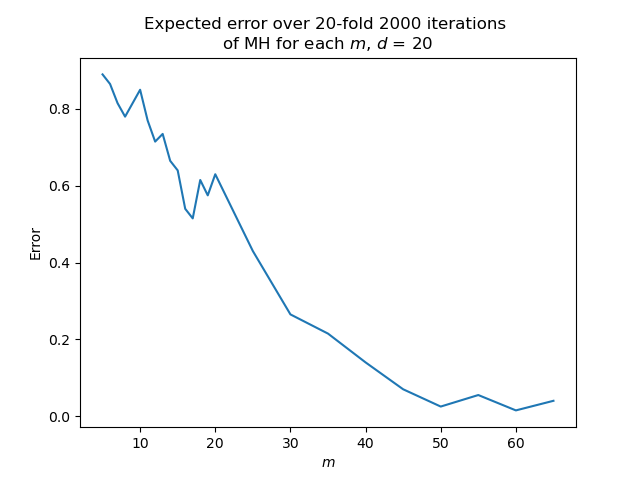
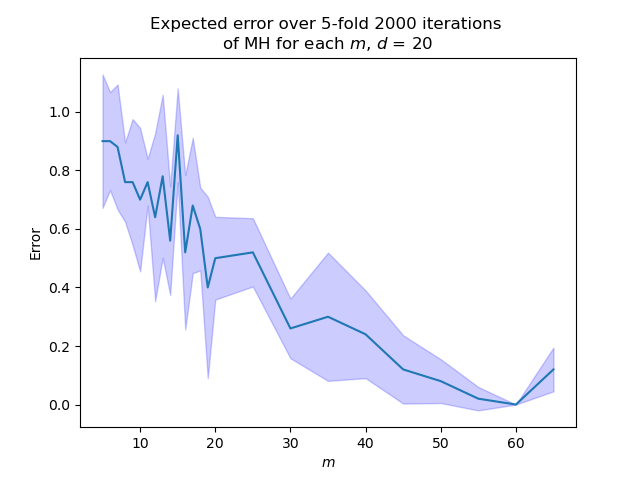
plot for q3 + added std dev for every plot

diff --git a/run.py b/run.py
@@ -52,16 +52,17 @@ def compute_error(estimate_theta, true_theta):
 
 if __name__ == "__main__":
 
-    # question = 0
+    question = 0
     # question = 1.6
     # question = 2.3
-    question = 2.31
+    # question = 2.31
     # question = 3.2
 
     d = 2000
     s = d // 100
     m = 200
     sigma = 1
+    runs = 5   # number of runs/folds for MH
 
     beta = 0.1
 
@@ -83,9 +84,9 @@ if __name__ == "__main__":
     if question == 1.6:
 
         # create a dense enough array of values of m
-        m_array = sorted(list(set([int(d*(1-0.025*r)) for r in range(1, 30, 2)] + [int(d*(1+0.125*r)) for r in range(0, 20, 2)])))
+        m_array = sorted(list(set([int(d*(1-0.025*r)) for r in range(1, 30, 2)] + [int(d*(1+0.125*r)) for r in range(0, 5, 2)])))
         errors = []
-        runs = 5
+        std = []
         for m in m_array:
             print("m =", m)
             errors_m = []
@@ -95,12 +96,17 @@ if __name__ == "__main__":
             print("m/d =", m/d, " error =", np.mean(errors_m))
             print("")
             errors.append(np.mean(errors_m))
+            std.append(np.std(errors_m))
         
+        errors = np.array(errors)
+        std = np.array(std)
         plt.plot(m_array, errors)
+        plt.fill_between(m_array, errors - std, errors + std, alpha=0.2, color='blue', label='Standard deviation across folds')
         plt.title(f"Expected error over {runs}-fold {100*d} iterations \nof MH for each $m$, $d$ = {d}")
         plt.xlabel("$m$")
         plt.ylabel("Error")
-        plt.savefig(f"1-1-6-d={d}.png")
+        plt.legend()
+        plt.savefig(f"plots/1-1-6-d={d}.png")
         plt.show()
 
     ###############################
@@ -109,9 +115,9 @@ if __name__ == "__main__":
 
     if question == 2.3:
 
-        m_array = np.array([20, 50, 100, 130, 150, 155, 175, 200])
+        m_array = np.array([20, 60, 100, 125, 150, 175, 200, 225, 250, 275])
         errors = []
-        runs = 5
+        std = []
         for m in m_array:
             print("m =", m)
             errors_m = []
@@ -121,12 +127,17 @@ if __name__ == "__main__":
             print("m/d =", m/d, " error =", np.mean(errors_m))
             print("")
             errors.append(np.mean(errors_m))
+            std.append(np.std(errors_m))
         
+        errors = np.array(errors)
+        std = np.array(std)
         plt.plot(m_array, errors)
+        plt.fill_between(m_array, errors - std, errors + std, alpha=0.2, color='blue', label='Standard deviation across folds')
         plt.title(f"SwapChain expected error over {runs}-fold {100*d} iterations \nof MH for each $m$, $d$ = {d}, $s$ = {s}")
         plt.xlabel("$m$")
         plt.ylabel("Error")
-        plt.savefig(f"1-2-3-d={d}.png")
+        plt.legend()
+        plt.savefig(f"plots/1-2-3-d={d}.png")
         plt.show()
 
     if question == 2.31:
@@ -143,3 +154,30 @@ if __name__ == "__main__":
     ###############################
     ### Q. 1.3.2                ###
     ###############################
+
+    if question == 3.2:
+
+        m_array = np.array([200, 500, 800, 1000, 1100, 1200, 1300, 1400, 1500])
+        errors = []
+        std = []
+        for m in m_array:
+            print("m =", m)
+            errors_m = []
+            for i in range(runs):
+                error = estimate_error(SwapChain, d, m, sigma, beta, s, sign_chain=True) / (2 * s)
+                errors_m.append(error)
+            print("m/d =", m/d, " error =", np.mean(errors_m))
+            print("")
+            errors.append(np.mean(errors_m))
+            std.append(np.std(errors_m))
+        
+        errors = np.array(errors)
+        std = np.array(std)
+        plt.plot(m_array, errors)
+        plt.fill_between(m_array, errors - std, errors + std, alpha=0.2, color='blue', label='Standard deviation across folds')
+        plt.title(f"SwapChain expected error for recovering 1-bit measurements \nover {runs}-fold {100*d} iterations of MH for each $m$, $d$ = {d}, $s$ = {s}")
+        plt.xlabel("$m$")
+        plt.ylabel("Error")
+        plt.legend()
+        plt.savefig(f"plots/1-3-2-d={d}.png")
+        plt.show()
